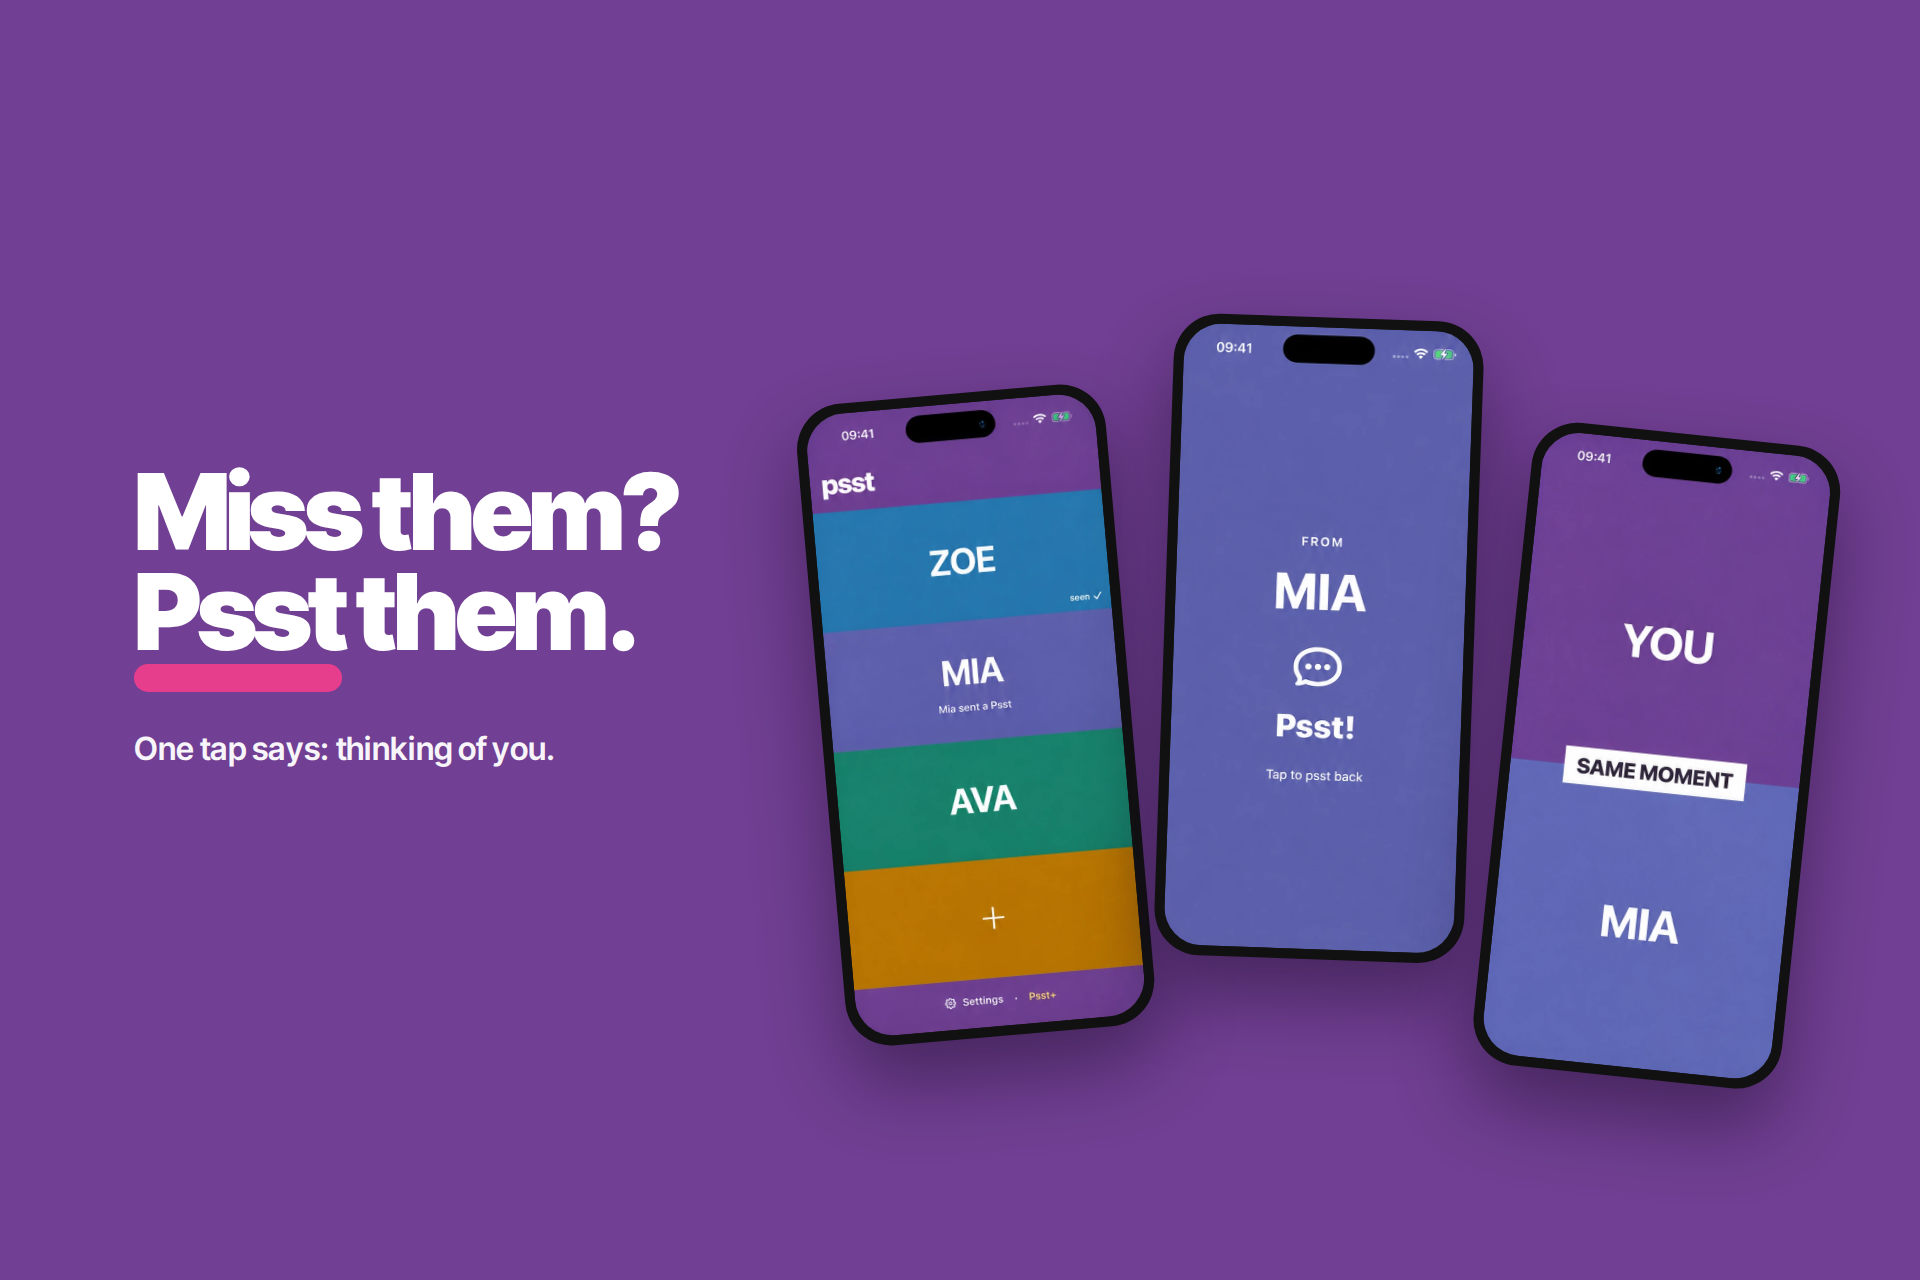
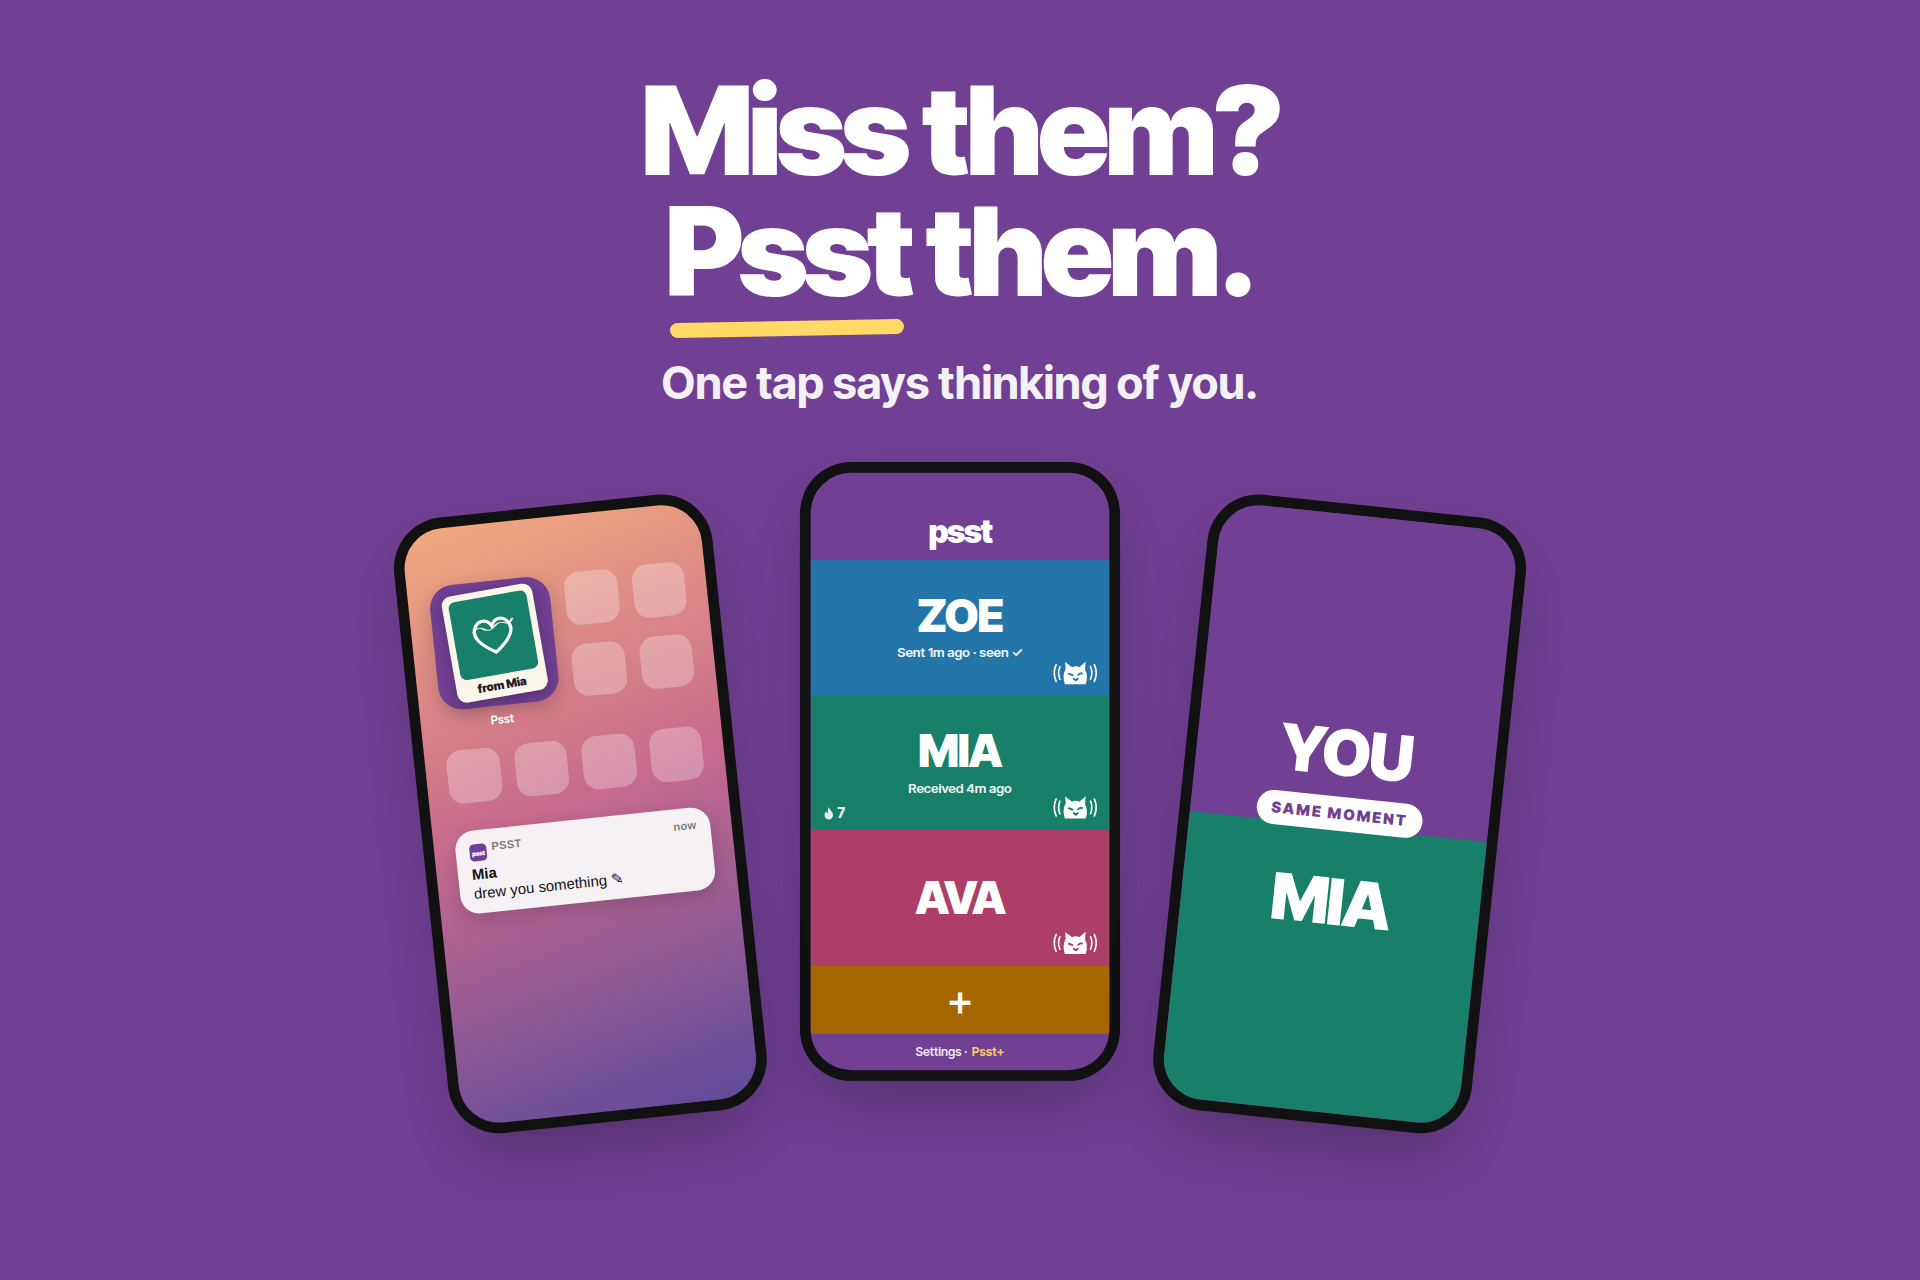
Centred store headers and three more In-App Events
Halloween doodles, Streak week and Say it your way, with card and details
art; app_event.py now creates, fills and submits every event in its list.

Design-Approved: events + headers picks 1A 2A 3A 4A on the Psst Events Headers preview page, owner, 19 Oct 2026

diff --git a/scripts/app_event.py b/scripts/app_event.py
@@ -1,12 +1,12 @@
-"""Creates (and with MODE=submit, sends for review) the App Store In-App Event
-"Draw someone new" (owner pick 4A, 19 Oct 2026) through the App Store Connect API.
+"""App Store In-App Events (owner picks: "Draw someone new" 4A on 19 Oct 2026; Halloween
+doodles, Streak week and Say it your way 2A 3A 4A the same day), made through the App
+Store Connect API.
 
-Idempotent: finds the event by its reference name and only fills what's missing.
-Runs 14 days from START (default: two days from now, so Apple can review first).
-Images: brand/appstore/event-draw-someone-new-{card-1920x1080,details-1080x1920}.png.
+Idempotent: finds each event by its reference name, creates what's missing and fills only
+events still editable (draft or rejected). MODE=draft stops there; MODE=submit sends every
+editable event to App Review. Art: brand/appstore/event-<slug>-{card-1920x1080,details-1080x1920}.png.
 Prints what it does, never keys. Reads ASC_KEY_ID, ASC_ISSUER_ID, ASC_KEY_P8, BUNDLE_ID.
 """
-import datetime
 import os
 import sys
 import time
@@ -14,16 +14,42 @@ import urllib.request
 
 import release as R
 
-REFERENCE = "Draw someone new (Oct 2026)"
-# Required by Apple: opens Psst (home, where + leads to Draw someone new).
+# Required by Apple: opens Psst (home, where the features are).
 DEEP_LINK = "psst://home"
-COPY = {"name": "Draw someone new",
-        "shortDescription": "Send a sealed doodle to someone new",
-        "longDescription": "Draw with one finger and share it as a link. It stays sealed until they join Psst, "
-                           "then it's the first thing they see."}
 ART = os.path.join(os.path.dirname(__file__), "..", "brand", "appstore")
-IMAGES = {"EVENT_CARD": "event-draw-someone-new-card-1920x1080.png",
-          "EVENT_DETAILS_PAGE": "event-draw-someone-new-details-1080x1920.png"}
+EDITABLE = ("DRAFT", "READY_FOR_REVIEW", "REJECTED")
+
+EVENTS = [
+    {"reference": "Draw someone new (Oct 2026)", "slug": "draw-someone-new", "badge": "MAJOR_UPDATE",
+     "purpose": "ATTRACT_NEW_USERS", "purchase": "NO_COST_ASSOCIATED",
+     "publish": None, "start": None, "end": None,  # created 19 Oct: 21 Oct – 4 Nov
+     "copy": {"name": "Draw someone new",
+              "shortDescription": "Send a sealed doodle to someone new",
+              "longDescription": "Draw with one finger and share it as a link. It stays sealed until they join Psst, "
+                                 "then it's the first thing they see."}},
+    {"reference": "Halloween doodles (Oct 2026)", "slug": "halloween-doodles", "badge": "SPECIAL_EVENT",
+     "purpose": "ATTRACT_NEW_USERS", "purchase": "NO_COST_ASSOCIATED",
+     "publish": "2026-10-23T16:00:00Z", "start": "2026-10-27T00:00:00Z", "end": "2026-11-01T23:59:00Z",
+     "copy": {"name": "Halloween doodles",
+              "shortDescription": "Draw them a ghost for their Home Screen",
+              "longDescription": "Hold someone's band, draw a ghost, a pumpkin or a black cat, and it lands on their "
+                                 "widget as a little polaroid. Free."}},
+    {"reference": "Streak week (Nov 2026)", "slug": "streak-week", "badge": "CHALLENGE",
+     "purpose": "KEEP_ACTIVE_USERS_INFORMED", "purchase": "NO_COST_ASSOCIATED",
+     "publish": "2026-11-06T16:00:00Z", "start": "2026-11-10T16:00:00Z", "end": "2026-11-17T16:00:00Z",
+     "copy": {"name": "Streak week",
+              "shortDescription": "Psst every day and keep the flame going",
+              "longDescription": "Psst each other every day for 7 days and a flame grows in the corner of their band. "
+                                 "Miss a day and it starts again."}},
+    {"reference": "Say it your way (Nov 2026)", "slug": "say-it-your-way", "badge": "MAJOR_UPDATE",
+     "purpose": "KEEP_ACTIVE_USERS_INFORMED", "purchase": "IN_APP_PURCHASE",
+     "publish": "2026-11-17T16:00:00Z", "start": "2026-11-20T16:00:00Z", "end": "2026-12-04T16:00:00Z",
+     "copy": {"name": "Say it your way",
+              "shortDescription": "Pick the word your people see",
+              "longDescription": "With Psst+, your people see hey, boop, oi, yo, mwah or psst psst instead of psst. "
+                                 "Pick yours once, for everyone."}},
+]
+IMAGES = {"EVENT_CARD": "card-1920x1080", "EVENT_DETAILS_PAGE": "details-1080x1920"}
 
 
 def upload(localization: str, asset_type: str, path: str):
@@ -40,53 +66,46 @@ def upload(localization: str, asset_type: str, path: str):
     # Unlike app screenshots, event images take no checksum.
     R.call("PATCH", f"/appEventScreenshots/{shot['id']}", {"data": {
         "type": "appEventScreenshots", "id": shot["id"], "attributes": {"uploaded": True}}})
-    print(f"Uploaded the {asset_type} image.")
+    print(f"  Uploaded the {asset_type} image.")
 
 
-def main():
-    for text, limit in ((COPY["name"], 30), (COPY["shortDescription"], 50), (COPY["longDescription"], 120)):
+def prepare(app: str, spec: dict, existing: dict, territories: list) -> str | None:
+    """Creates or fills one event; returns its id when it's editable (ready to submit)."""
+    for text, limit in ((spec["copy"]["name"], 30), (spec["copy"]["shortDescription"], 50),
+                        (spec["copy"]["longDescription"], 120)):
         if len(text) > limit:
-            sys.exit(f"Event copy over {limit} characters: {text}")
-    apps = R.call("GET", "/apps", **{"filter[bundleId]": os.environ["BUNDLE_ID"]})["data"]
-    if not apps:
-        sys.exit("No app with that bundle ID in App Store Connect.")
-    app = apps[0]["id"]
-
-    events = R.call("GET", f"/apps/{app}/appEvents", limit="50")["data"]
-    event = next((e for e in events if e["attributes"].get("referenceName") == REFERENCE), None)
+            sys.exit(f"{spec['reference']}: copy over {limit} characters: {text}")
+    event = existing.get(spec["reference"])
     if event:
-        print(f"Event exists ({event['attributes'].get('eventState')}).")
+        state = event["attributes"].get("eventState")
+        print(f"{spec['copy']['name']}: exists ({state}).")
+        if state not in EDITABLE:
+            return None
         if not event["attributes"].get("deepLink"):
             R.call("PATCH", f"/appEvents/{event['id']}", {"data": {
                 "type": "appEvents", "id": event["id"], "attributes": {"deepLink": DEEP_LINK}}})
-            print(f"Deep link set: {DEEP_LINK}.")
     else:
-        start = os.environ.get("START") or (datetime.datetime.now(datetime.timezone.utc)
-                                            + datetime.timedelta(days=2)).strftime("%Y-%m-%dT16:00:00Z")
-        begin = datetime.datetime.fromisoformat(start.replace("Z", "+00:00"))
-        end = (begin + datetime.timedelta(days=14)).strftime("%Y-%m-%dT%H:%M:%SZ")
-        territories = [t["id"] for t in R.call("GET", "/territories", limit="200")["data"]]
+        if not spec["start"]:
+            sys.exit(f"{spec['reference']} is missing and has no dates to create it with.")
         event = R.call("POST", "/appEvents", {"data": {
             "type": "appEvents",
-            "attributes": {"referenceName": REFERENCE, "badge": "MAJOR_UPDATE", "primaryLocale": "en-US",
-                           "deepLink": DEEP_LINK,
-                           "priority": "HIGH", "purpose": "ATTRACT_NEW_USERS",
-                           "purchaseRequirement": "NO_COST_ASSOCIATED",
-                           "territorySchedules": [{"territories": territories, "publishStart": start,
-                                                   "eventStart": start, "eventEnd": end}]},
+            "attributes": {"referenceName": spec["reference"], "badge": spec["badge"], "primaryLocale": "en-US",
+                           "deepLink": DEEP_LINK, "priority": "HIGH", "purpose": spec["purpose"],
+                           "purchaseRequirement": spec["purchase"],
+                           "territorySchedules": [{"territories": territories, "publishStart": spec["publish"],
+                                                   "eventStart": spec["start"], "eventEnd": spec["end"]}]},
             "relationships": {"app": {"data": {"type": "apps", "id": app}}}}})["data"]
-        print(f"Created the event: {start} to {end}, {len(territories)} territories.")
+        print(f"{spec['copy']['name']}: created, {spec['start']} to {spec['end']}, {len(territories)} territories.")
 
     locs = R.call("GET", f"/appEvents/{event['id']}/localizations")["data"]
     loc = next((l for l in locs if l["attributes"].get("locale") == "en-US"), None)
     if loc:
         R.call("PATCH", f"/appEventLocalizations/{loc['id']}", {"data": {
-            "type": "appEventLocalizations", "id": loc["id"], "attributes": COPY}})
+            "type": "appEventLocalizations", "id": loc["id"], "attributes": spec["copy"]}})
     else:
         loc = R.call("POST", "/appEventLocalizations", {"data": {
-            "type": "appEventLocalizations", "attributes": {"locale": "en-US", **COPY},
+            "type": "appEventLocalizations", "attributes": {"locale": "en-US", **spec["copy"]},
             "relationships": {"appEvent": {"data": {"type": "appEvents", "id": event["id"]}}}}})["data"]
-    print("Event name and descriptions set (en-US).")
 
     have = set()
     for shot in R.call("GET", f"/appEventLocalizations/{loc['id']}/appEventScreenshots")["data"]:
@@ -95,37 +114,50 @@ def main():
             R.call("DELETE", f"/appEventScreenshots/{shot['id']}")  # a half-finished upload: start again
         else:
             have.add(shot["attributes"].get("appEventAssetType"))
-    for asset_type, name in IMAGES.items():
+    for asset_type, size in IMAGES.items():
         if asset_type not in have:
-            upload(loc["id"], asset_type, os.path.join(ART, name))
+            upload(loc["id"], asset_type, os.path.join(ART, f"event-{spec['slug']}-{size}.png"))
 
     for _ in range(60):  # Apple must finish processing the images before review
         states = [(s["attributes"].get("assetDeliveryState") or {}).get("state")
                   for s in R.call("GET", f"/appEventLocalizations/{loc['id']}/appEventScreenshots")["data"]]
         if states and all(state == "COMPLETE" for state in states):
-            print("Event images processed.")
             break
         if "FAILED" in states:
-            sys.exit("Apple couldn't process an event image.")
+            sys.exit(f"{spec['reference']}: Apple couldn't process an event image.")
         time.sleep(10)
     else:
-        sys.exit("Event images weren't processed within 10 minutes. Run again.")
+        sys.exit(f"{spec['reference']}: images weren't processed within 10 minutes. Run again.")
+    print(f"  Copy and images ready.")
+    return event["id"]
 
-    if os.environ.get("MODE", "draft") != "submit":
-        print("Event ready as a draft. Not submitted (MODE=draft).")
+
+def main():
+    apps = R.call("GET", "/apps", **{"filter[bundleId]": os.environ["BUNDLE_ID"]})["data"]
+    if not apps:
+        sys.exit("No app with that bundle ID in App Store Connect.")
+    app = apps[0]["id"]
+    existing = {e["attributes"].get("referenceName"): e
+                for e in R.call("GET", f"/apps/{app}/appEvents", limit="50")["data"]}
+    territories = [t["id"] for t in R.call("GET", "/territories", limit="200")["data"]]
+    ready = [i for spec in EVENTS if (i := prepare(app, spec, existing, territories))]
+
+    if os.environ.get("MODE", "draft") != "submit" or not ready:
+        print(f"{len(ready)} event(s) ready as drafts. Not submitted." if ready else "Nothing to submit.")
         return
     open_ones = R.call("GET", "/reviewSubmissions", **{"filter[app]": app, "filter[platform]": "IOS",
                                                        "filter[state]": "READY_FOR_REVIEW"})["data"]
     submission = open_ones[0] if open_ones else R.call("POST", "/reviewSubmissions", {"data": {
         "type": "reviewSubmissions", "attributes": {"platform": "IOS"},
         "relationships": {"app": {"data": {"type": "apps", "id": app}}}}})["data"]
-    R.call("POST", "/reviewSubmissionItems", {"data": {
-        "type": "reviewSubmissionItems", "relationships": {
-            "reviewSubmission": {"data": {"type": "reviewSubmissions", "id": submission["id"]}},
-            "appEvent": {"data": {"type": "appEvents", "id": event["id"]}}}}})
+    for event_id in ready:
+        R.call("POST", "/reviewSubmissionItems", {"data": {
+            "type": "reviewSubmissionItems", "relationships": {
+                "reviewSubmission": {"data": {"type": "reviewSubmissions", "id": submission["id"]}},
+                "appEvent": {"data": {"type": "appEvents", "id": event_id}}}}})
     R.call("PATCH", f"/reviewSubmissions/{submission['id']}", {"data": {
         "type": "reviewSubmissions", "id": submission["id"], "attributes": {"submitted": True}}})
-    print("Event submitted for review.")
+    print(f"Submitted {len(ready)} event(s) for review.")
 
 
 if __name__ == "__main__":

diff --git a/DESIGN.md b/DESIGN.md
@@ -102,6 +102,7 @@ The owner explicitly chose **Yo** after rejecting the earlier cobalt-card design
 - App Store screenshots (owner picks 1A 2A 3A 4A, 18 Oct 2026; brand/appstore, 6.9" 1320x2868 and 6.5" 1284x2778): seven screens built on Scrnsht Studio's principles, drawn from today's app, illustrated hands, no ratings or download numbers: 1 "Miss them? Psst them." / "One tap says thinking of you." (today's home on purple); 2 "Draw them a doodle." / "It lands on their Home Screen." (a hand holding a phone with the doodle polaroid widget, yellow); 3 "You were both thinking it." / "Psst within 10 seconds of each other." (two hands, two skin tones, two SAME MOMENT phones, pink); 4 "Your doodle is the invite." / "Sealed until they join." (the sealed link page, cream); 5 "Keep your streak warm." / "Psst each other every day." (flames, indigo); 6 "Say it your way." / "Pick the word your people see." (the Psst+ your-word card, gold); 7 "Just your people." / "No ads. No feed. No contacts upload. Invite only." (chips, a Featured on Product Hunt badge and the happy cat, purple).
 - Search copy (owner picks 1A 2A 3A 4A 5A, 19 Oct 2026): App Store name "Psst: Doodle & Miss You Widget", subtitle "For couples, besties & family", the keywords, promotional text and description in docs/ASO.md (the Release workflow sets them; name, subtitle, keywords and description go out with the next version). psstapp.fun's title is "Psst: doodle widget and one-tap ‘thinking of you’ app". Four landing pages in the site's own style, each a hero with a drawn screen, two or three feature bands, a short FAQ and the App Store button: /doodle-widget, /long-distance-relationship-app, /couples-widget and /yo-app ("Not affiliated with Yo").
 - Site finish (owner picks 1B 2A 3A 4A, 19 Oct 2026): a "Psst for…" row of four colour cards above the footer (Doodle widget, Long distance, Couples widget, Remember Yo?; each landing page shows the other three); the launch badges stay, as one tidy white "Launched on" card with every badge 36 px high, grey until hovered or focused (the card hides if none load); a share card per page (1200×630: home, doodle widget, long distance, couples widget, Yo; privacy, terms and support use the home card); an App Store In-App Event "Draw someone new" ("Send a sealed doodle to someone new") with the sealed-polaroid card art, run for 14 days.
+- Store headers and more events (owner picks 1A 2A 3A 4A, 19 Oct 2026): the App Store header art (brand/appstore-header, 5244x2950, 3840x1646, 3840x2560, 1920x1280) is centred so nothing is cut at any crop: "Miss them? / Psst them." on two lines, "One tap says thinking of you." and three phones (the doodle widget, today's home, same moment). Three more In-App Events with their own card and details art: Halloween doodles ("Draw them a ghost for their Home Screen", 27 Oct – 1 Nov), Streak week ("Psst every day and keep the flame going", a challenge, 10–17 Nov) and Say it your way ("Pick the word your people see", Psst+, 20 Nov – 4 Dec).
 - Cats in the pull gaps (owner pick 2A, 14 Oct 2026): pulling home down opens the gap in the first band's colour with the happy cat waving a paw, "I'm here!", instead of a spinner; pulling far enough (90 pt) refreshes, once per pull. Pushing up past the end opens a gold gap under the + band where the cat waves "Psst!". The gap above Settings now sits in the footer so the list ends flush. Reduce Motion: the cat doesn't wave.
 - Super Psst nudge (owner pick 1A + shake, 14 Oct 2026): the ✦ is replaced by the nudge mark, the cat between two pairs of shake arcs, eyes in the band's colour (same corner, same target). Sending a Super Psst shakes the band's name side to side and pops the mark; a Super Psst arriving shakes the whole moment like the old MSN nudge. Reduce Motion: no shake (ripple flash and the cat's pulse only).
 - 1.0.4 picks (owner, 13 Oct 2026): the version at the bottom of Settings, long-press to copy (since 14 Oct 2026 the app version only, "Psst 1.0.5", no build number: owner request); pull-down search on home once you have 5+ people (filters bands live); while a Psst sends, a light sweeps across the name (Reduce Motion: a gentle fade) instead of the small spinner; the invite page's main button is "Get Psst" (App Store, copies the code on the same tap) with Apple's Smart App Banner, and "Open in Psst" is a small link.
